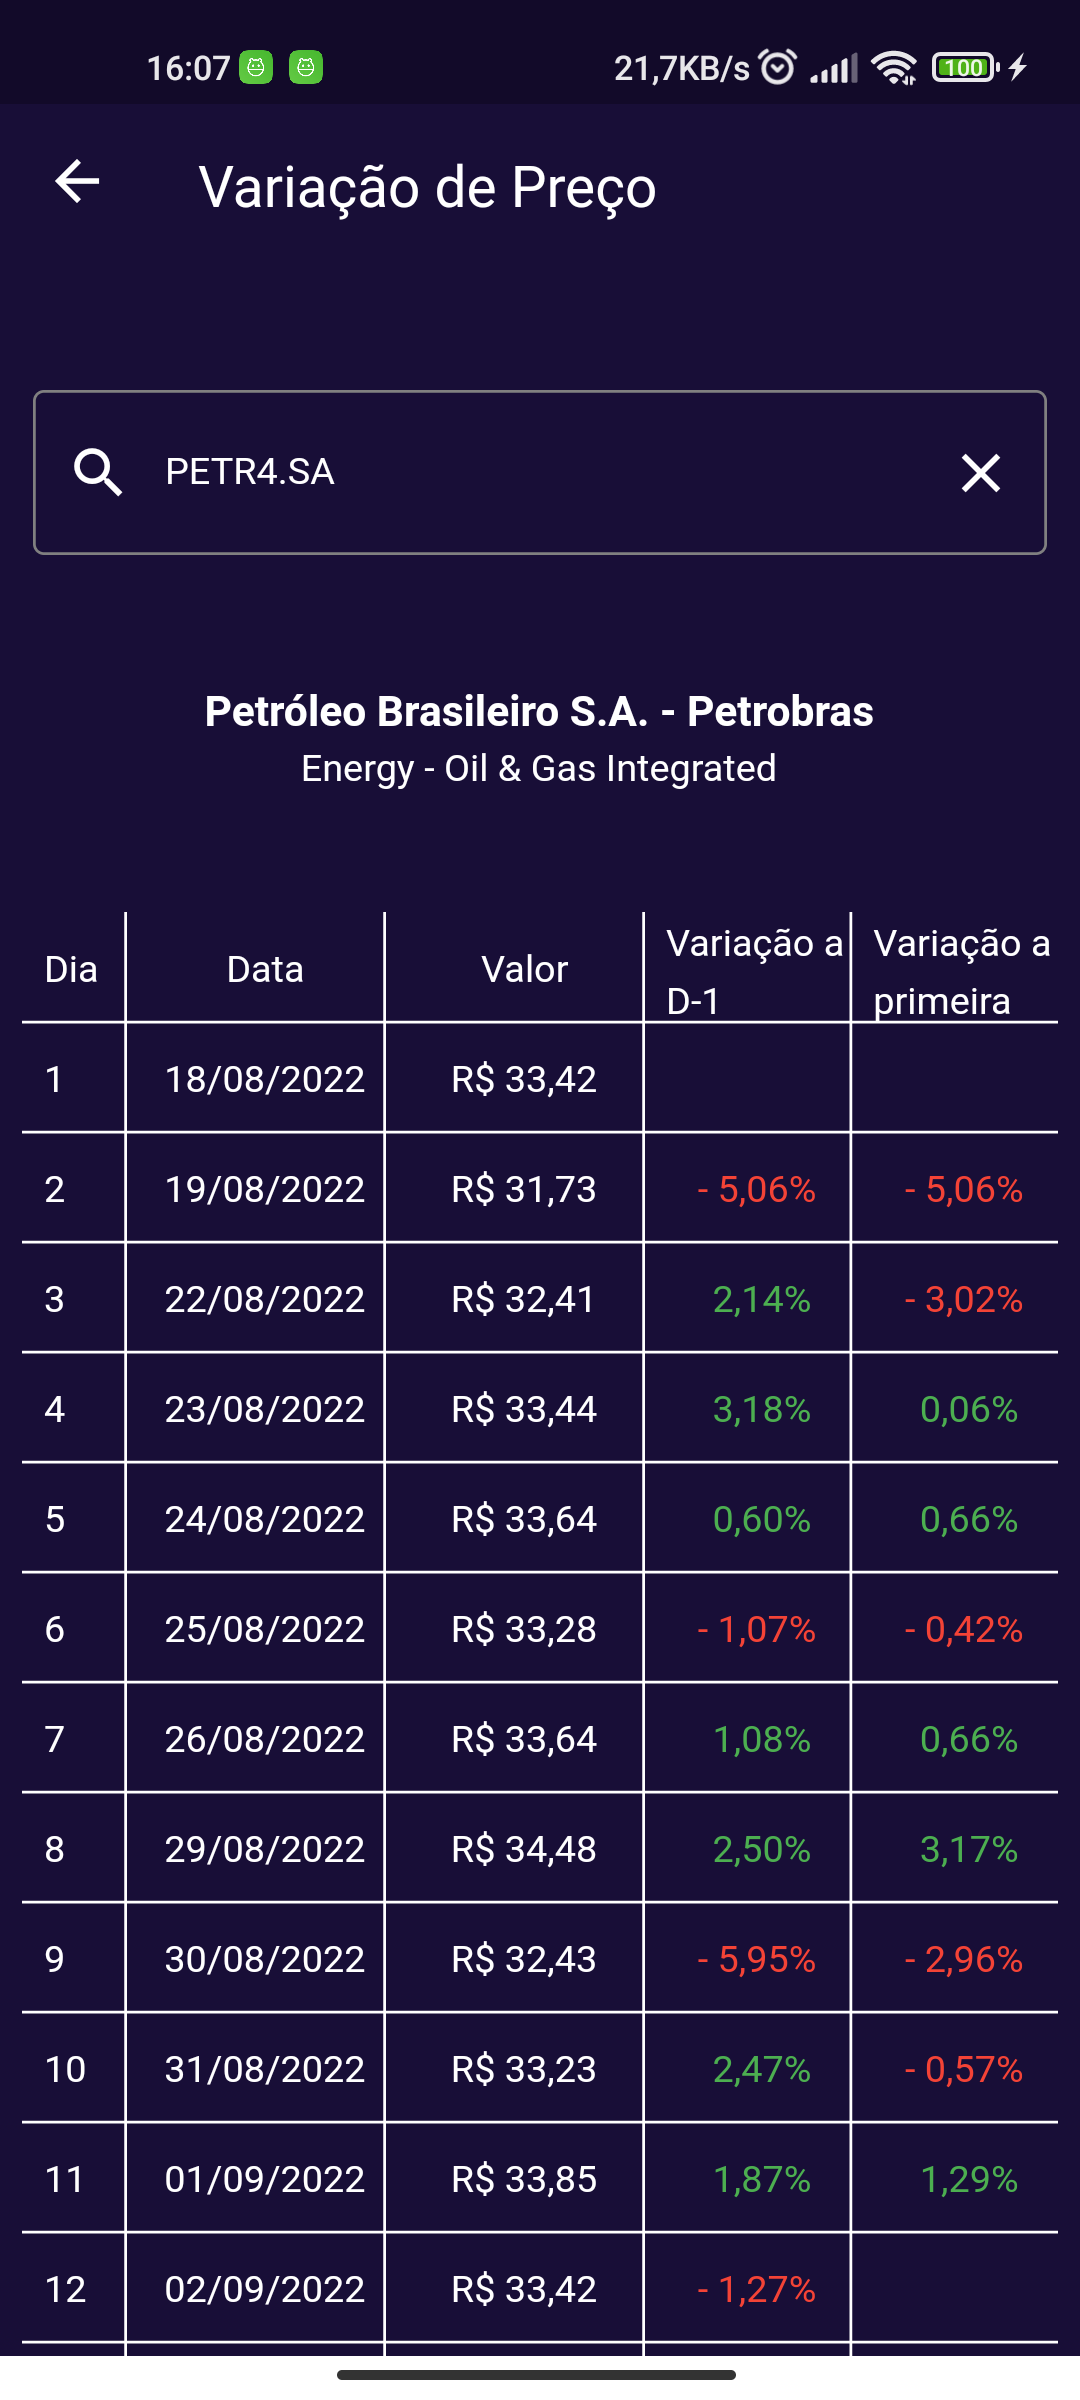
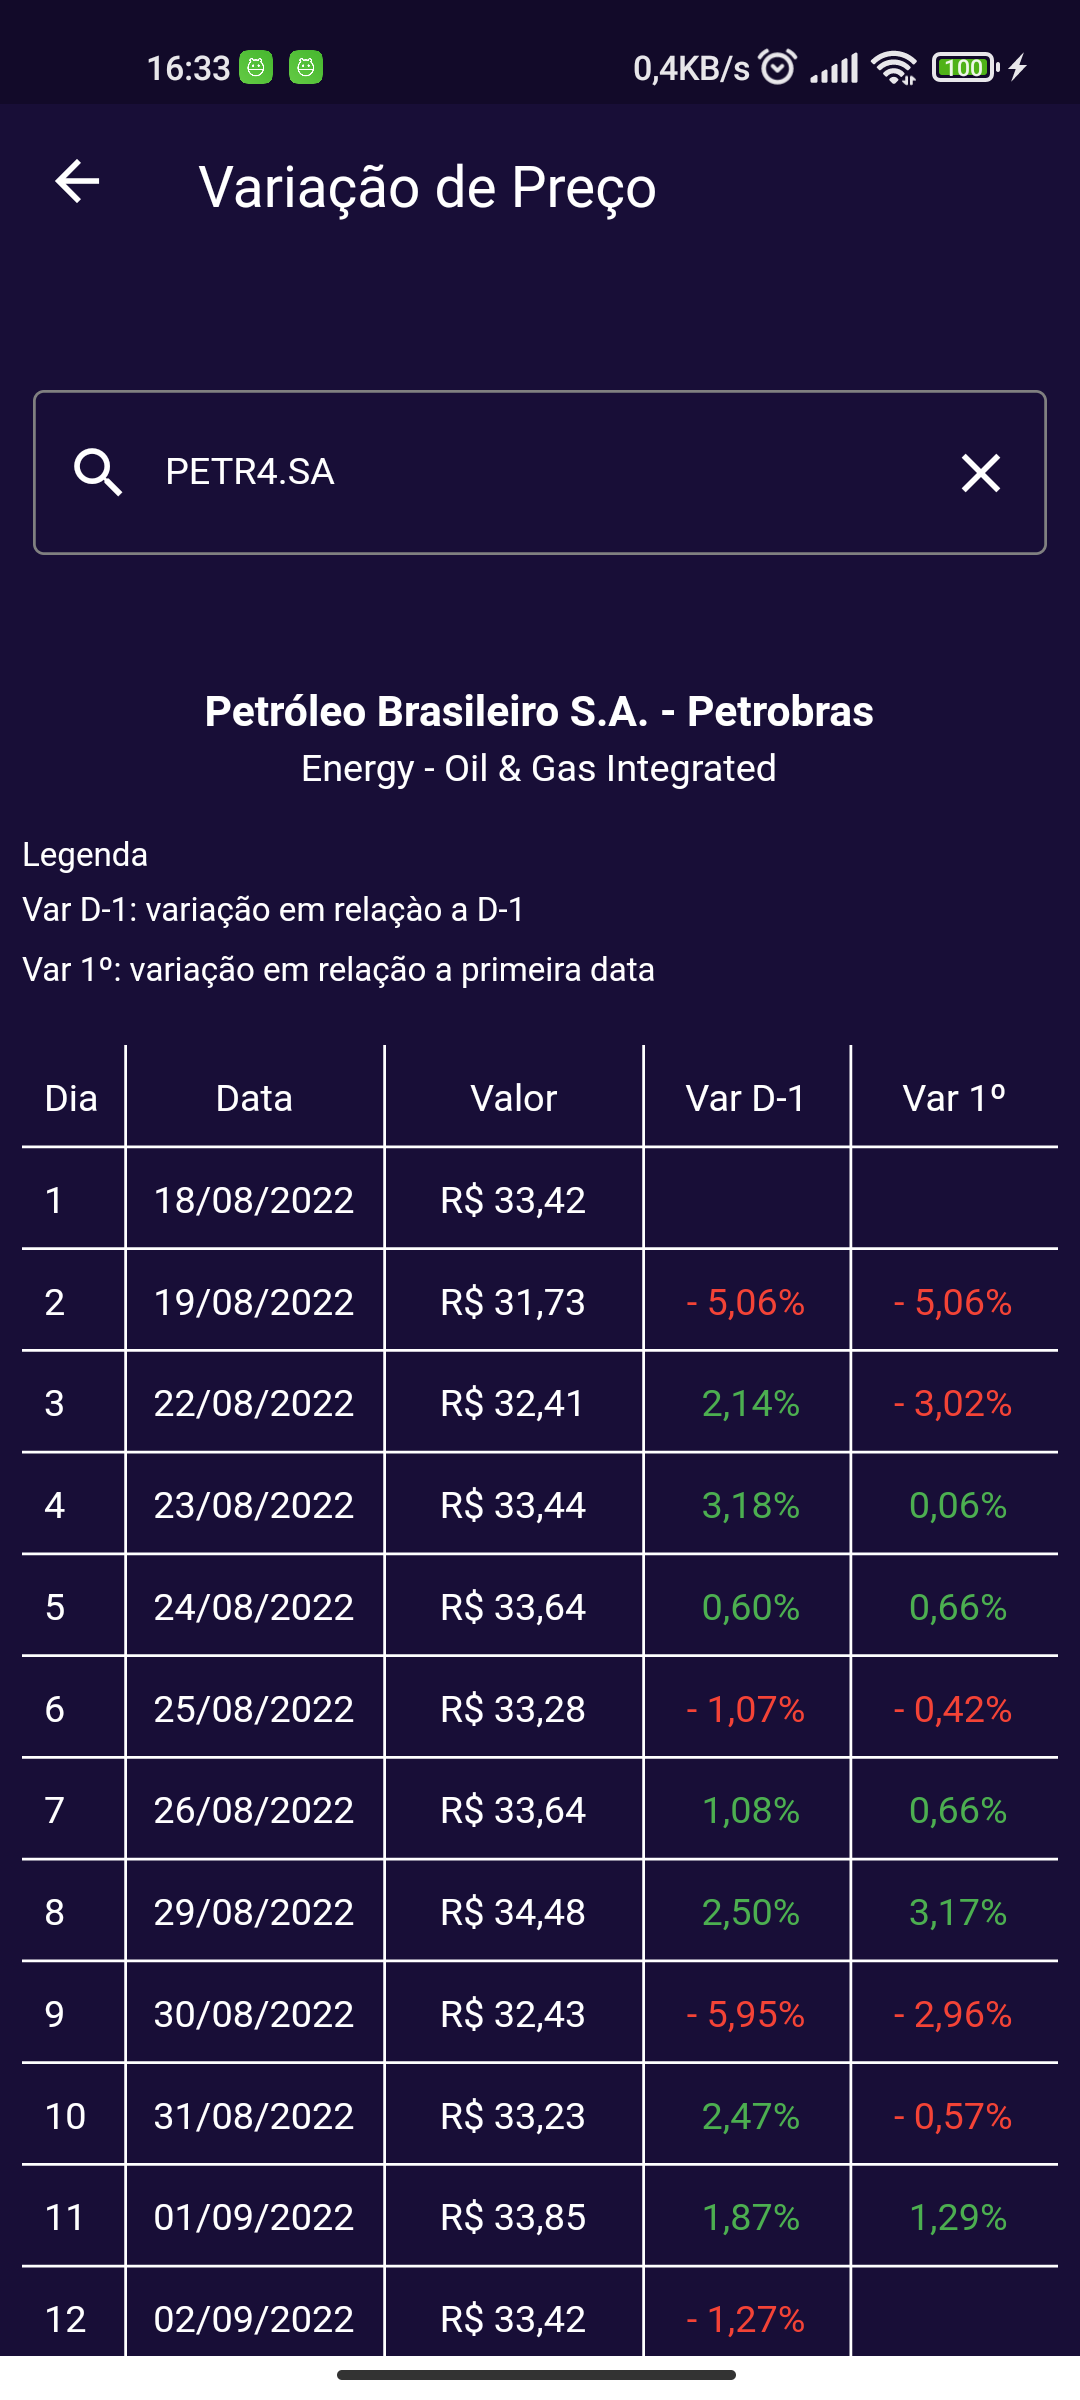
feat: add subtitle

diff --git a/lib/modules/price_variation/views/price_variation_page.dart b/lib/modules/price_variation/views/price_variation_page.dart
@@ -155,7 +155,53 @@ class PriceVariationPage extends GetView<PriceVariationController> {
                             color: Colors.white,
                           ),
                         ),
-                        SizedBox(height: 5.pxH),
+                        const SizedBox(height: 12),
+                        Padding(
+                          padding: const EdgeInsets.symmetric(horizontal: 8),
+                          child: Row(
+                            crossAxisAlignment: CrossAxisAlignment.start,
+                            children: [
+                              Text(
+                                'subtitle'.tr,
+                                style: fontBody2(
+                                  context,
+                                  color: Colors.white,
+                                ),
+                              ),
+                            ],
+                          ),
+                        ),
+                        Padding(
+                          padding: const EdgeInsets.symmetric(
+                            horizontal: 8,
+                            vertical: 2,
+                          ),
+                          child: Row(
+                            crossAxisAlignment: CrossAxisAlignment.start,
+                            children: [
+                              Text(
+                                'obs_variation_d1'.tr,
+                                style: fontBody2(context, color: Colors.white),
+                              ),
+                            ],
+                          ),
+                        ),
+                        Padding(
+                          padding: const EdgeInsets.symmetric(
+                            horizontal: 8,
+                            vertical: 2,
+                          ),
+                          child: Row(
+                            crossAxisAlignment: CrossAxisAlignment.start,
+                            children: [
+                              Text(
+                                'obs_first_variation'.tr,
+                                style: fontBody2(context, color: Colors.white),
+                              ),
+                            ],
+                          ),
+                        ),
+                        SizedBox(height: 2.pxH),
                         Expanded(
                           child: SingleChildScrollView(
                             child: Padding(
@@ -207,7 +253,6 @@ class PriceVariationPage extends GetView<PriceVariationController> {
     return TableRow(
       children: [
         Container(
-          height: 40,
           padding: const EdgeInsets.all(8),
           alignment: Alignment.centerLeft,
           child: Text(
@@ -219,8 +264,7 @@ class PriceVariationPage extends GetView<PriceVariationController> {
           ),
         ),
         Container(
-          height: 40,
-          padding: const EdgeInsets.only(left: 8),
+          padding: const EdgeInsets.all(8),
           alignment: Alignment.center,
           child: Text(
             date,
@@ -231,8 +275,7 @@ class PriceVariationPage extends GetView<PriceVariationController> {
           ),
         ),
         Container(
-          height: 40,
-          padding: const EdgeInsets.only(left: 8),
+          padding: const EdgeInsets.all(8),
           alignment: Alignment.center,
           child: Text(
             price,
@@ -243,8 +286,7 @@ class PriceVariationPage extends GetView<PriceVariationController> {
           ),
         ),
         Container(
-          height: 40,
-          padding: const EdgeInsets.only(left: 8),
+          padding: const EdgeInsets.all(8),
           alignment: Alignment.center,
           child: Text(
             variationD1,
@@ -255,8 +297,7 @@ class PriceVariationPage extends GetView<PriceVariationController> {
           ),
         ),
         Container(
-          height: 40,
-          padding: const EdgeInsets.only(left: 8),
+          padding: const EdgeInsets.all(8),
           alignment: Alignment.center,
           child: Text(
             firstVariation,

diff --git a/lib/localizations/translation.dart b/lib/localizations/translation.dart
@@ -10,10 +10,13 @@ class Translation extends Translations {
         'day': 'Dia',
         'date': 'Data',
         'price': 'Valor',
-        'variation_d1': 'Variação a D-1',
-        'first_variation': 'Variação a primeira data',
+        'variation_d1': 'Var D-1',
+        'first_variation': 'Var 1º',
         'search_active': 'Pesquisar ativo',
         'active_not_found': 'Ativo não encontrado',
+        'subtitle': 'Legenda',
+        'obs_variation_d1': 'Var D-1: variação em relaçào a D-1',
+        'obs_first_variation': 'Var 1º: variação em relação a primeira data',
       },
     };
   }
